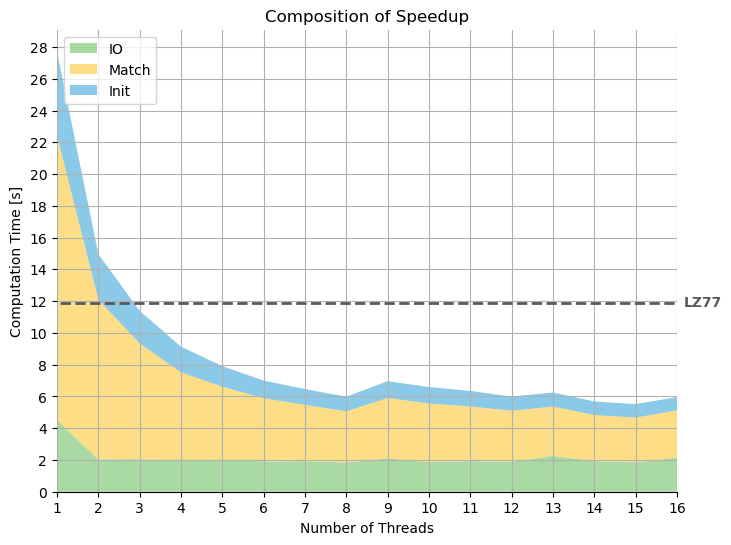
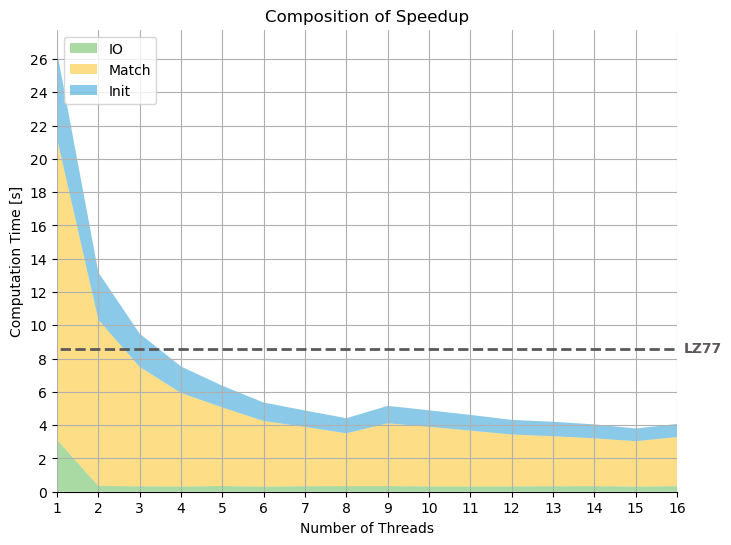
Updated Experiment Data

Changed region(s): [[0.0301, 0.0624, 0.9932, 0.9046], [0.933, 0.6239, 0.9932, 0.655]]

diff --git a/README.md b/README.md
@@ -2,30 +2,30 @@
 
 Simple Collection of Prototypes of LZ-Algorithms:LZW, LZ77, Approx. LZ77 (seq+ par)
 
-## Experiment(Last Update: 23/06)
+## Experiment(Last Update: 01/07)
 
 ### System = Codespace-P16 : Dynamic Granularity = On : Dynamic Init = On
 
 |File.Size|Algorithm|Ratio(Out/In)|Runtime[s]|Factors(#/In)|Memory([Byte]/In)|
 |---------------|---------------|:---------------:|:---------------:|:---------------:|:------------:|
-|dna.100MB|LZ77|48.31%|8.34|7.03%|20.00|
-|dna.100MB|Approx.LZ77|45.79%|21.06|11.10%|8.81|
-|dna.100MB|Approx.LZ77Par|45.79%|4.32|11.10%|6.47|
-|sources.100MB|LZ77|38.15%|7.55|7.98%|20.00|
-|sources.100MB|Approx.LZ77|41.57%|26.55|10.92%|6.17|
-|sources.100MB|Approx.LZ77Par|41.57%|4.64|10.92%|5.41|
-|english.100MB|LZ77|46.75%|8.87|8.56%|20.00|
-|english.100MB|Approx.LZ77|44.33%|30.53|11.08%|8.78|
-|english.100MB|Approx.LZ77Par|44.33%|5.06|11.08%|5.91|
-|dblp.xml.100MB|LZ77|23.09%|6.88|4.63%|20.00|
-|dblp.xml.100MB|Approx.LZ77|27.28%|18.24|7.06%|4.04|
-|dblp.xml.100MB|Approx.LZ77Par|27.28%|3.29|7.06%|3.85|
-|proteins.100MB|LZ77|69.21%|12.59|40.51%|20.00|
-|proteins.100MB|Approx.LZ77|70.48%|27.47|17.23%|10.78|
-|proteins.100MB|Approx.LZ77Par|70.48%|5.76|17.23%|9.45|
-|dummy.6018B|LZ77|16.85%|0.00|9.70%|20.00|
-|dummy.6018B|Approx.LZ77|20.41%|0.00|11.05%|8.24|
-|dummy.6018B|Approx.LZ77Par|20.41%|0.00|11.05%|6.35|
+|dna.100MB|LZ77|48.31%|6.93|7.03%|20.00|
+|dna.100MB|Approx.LZ77|45.79%|19.70|11.10%|9.50|
+|dna.100MB|Approx.LZ77Par|45.79%|3.36|11.10%|10.24|
+|english.100MB|LZ77|46.75%|7.29|8.56%|21.76|
+|english.100MB|Approx.LZ77|44.33%|28.32|11.08%|10.45|
+|english.100MB|Approx.LZ77Par|44.33%|4.10|11.08%|9.39|
+|dblp.xml.100MB|LZ77|23.09%|6.22|4.63%|20.00|
+|dblp.xml.100MB|Approx.LZ77|27.28%|17.25|7.06%|5.41|
+|dblp.xml.100MB|Approx.LZ77Par|27.28%|2.67|7.06%|5.35|
+|sources.100MB|LZ77|38.15%|6.58|7.98%|20.00|
+|sources.100MB|Approx.LZ77|41.57%|25.25|10.92%|9.81|
+|sources.100MB|Approx.LZ77Par|41.57%|3.74|10.92%|9.61|
+|dummy.6018B|LZ77|16.85%|0.00|9.70%|22.13|
+|dummy.6018B|Approx.LZ77|20.41%|0.00|11.05%|11.72|
+|dummy.6018B|Approx.LZ77Par|20.41%|0.00|11.05%|6.62|
+|proteins.100MB|LZ77|69.21%|8.82|40.51%|39.04|
+|proteins.100MB|Approx.LZ77|70.48%|26.05|17.23%|20.53|
+|proteins.100MB|Approx.LZ77Par|70.48%|4.07|17.23%|20.40|
 
 ## Thesis-Plan
 
